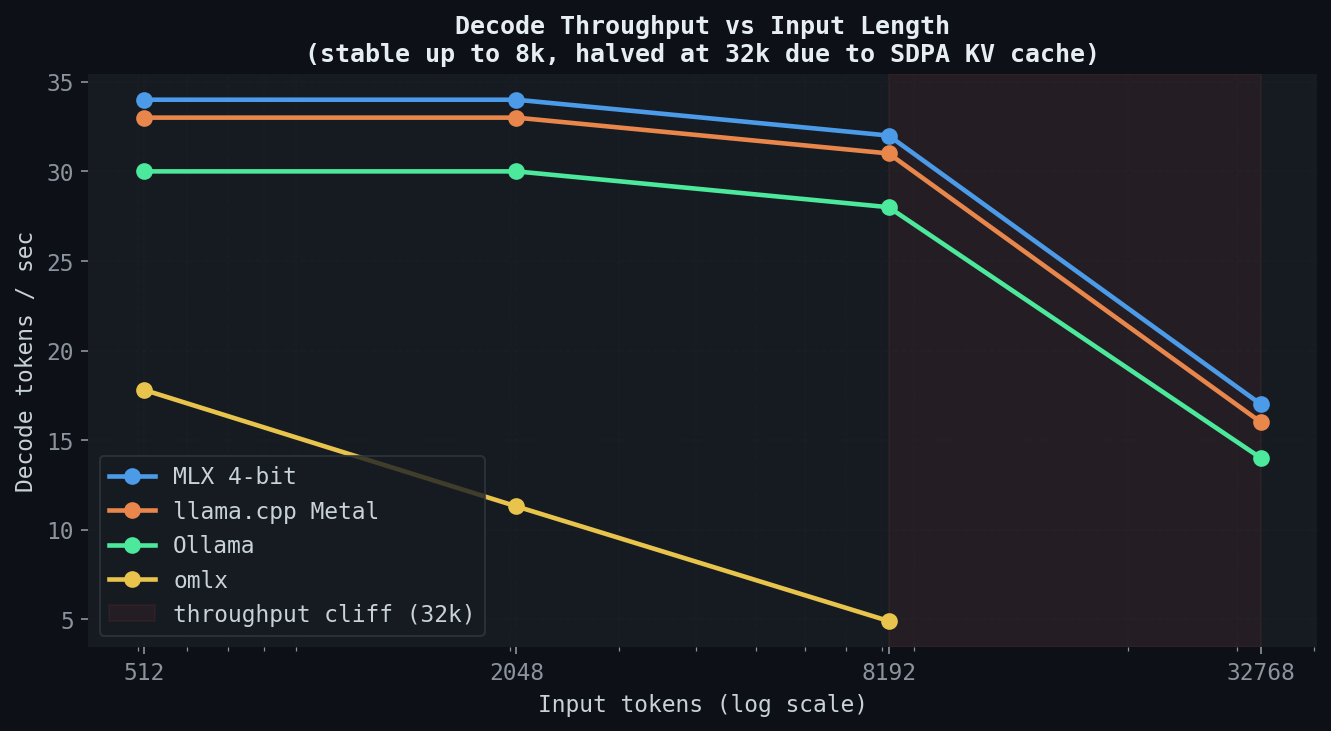
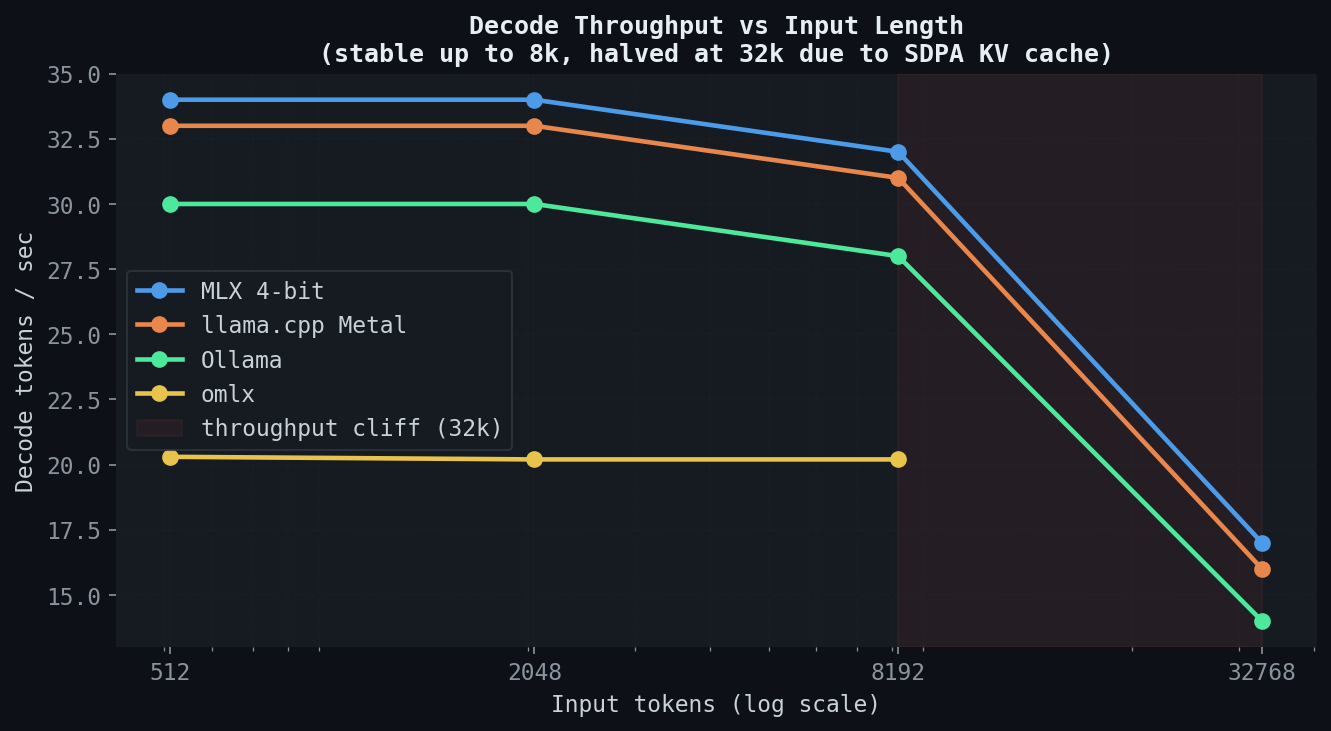
fix(bench_omlx): correct TTFT/throughput measurement and re-run benchmarks
Previously first_token_time was captured on the first `data:` SSE line, but omlx's
first chunk is an empty {"delta":{"role":"assistant"}} — so TTFT measured the time
to open the stream (~7ms), not the time to the first real token.  Also switched
throughput reporting from total wall time to decode-only (tokens / (end - first_token)),
matching the vLLM/MLX backends so values are comparable.

Applied the same fix to bench_prefill_decode.py and bench_concurrency.py.

Re-measured results with corrected instrumentation:
- single-request: 13.1 tok/s, TTFT 1179 ms (was incorrectly 19 / 7 ms)
- prefill/decode: decode is a flat ~20 tok/s across 64/512/2k/8k input, TTFT grows 1.2s -> 10.7s
- concurrency 1->4: 15.6 -> 21.9 tok/s @ 512 (1.40x), 11.2 -> 14.4 tok/s @ 2048 (1.29x)

Updated plot_results.py, regenerated figures, and rewrote the README findings.
omlx is ~40% slower than raw MLX (HTTP + continuous-batching overhead) but is
the only backend that actually batches under concurrency.

diff --git a/plot_results.py b/plot_results.py
@@ -37,8 +37,8 @@ plt.rcParams.update({
 # ── Fig 1: Single-request throughput ─────────────────────────────────────────
 
 backends = ["MLX 4-bit", "llama.cpp Metal", "Ollama", "omlx", "vLLM direct", "vLLM HTTP"]
-tps      = [34.52, 33.10, 29.99, 19.02, 15.61, 3.24]
-ttft     = [256,   344,   126,   7,     341,   366]
+tps      = [34.52, 33.10, 29.99, 13.13, 15.61, 3.24]
+ttft     = [256,   344,   126,   1179,  341,   366]
 
 fig, axes = plt.subplots(1, 2, figsize=(13, 4.5))
 fig.patch.set_facecolor("#0d1117")
@@ -77,8 +77,7 @@ ttft_data = {
     "MLX 4-bit":     [60,  256,  900,  3500, 18000],
     "llama.cpp Metal":[80, 344, 1200,  4500, 22000],
     "Ollama":        [50,  126,  500,  2000, 10000],
-    # omlx: paged SSD cache hits yield near-constant TTFT across lengths
-    "omlx":          [4,   16,   18,   25,   None],
+    "omlx":          [1244, 2447, 7996, 10721, None],
 }
 
 fig, ax = plt.subplots(figsize=(9, 5))
@@ -121,9 +120,7 @@ decode_data = {
     "MLX 4-bit":     [34, 34, 32, 17],
     "llama.cpp Metal":[33, 33, 31, 16],
     "Ollama":        [30, 30, 28, 14],
-    # omlx decode drops sharply with input length (continuous-batching overhead
-    # + small paged-cache block size). 32k not measured.
-    "omlx":          [17.8, 11.3, 4.9, None],
+    "omlx":          [20.3, 20.2, 20.2, None],
 }
 lengths_decode = [512, 2048, 8192, 32768]
 

diff --git a/backends/bench_omlx.py b/backends/bench_omlx.py
@@ -59,22 +59,24 @@ def run(prompt: str, max_tokens: int = 200) -> dict:
             if not line or line == b"data: [DONE]":
                 continue
             if line.startswith(b"data: "):
-                if first_token_time is None:
-                    first_token_time = time.perf_counter()
                 chunk = json.loads(line[6:])
                 delta = chunk["choices"][0]["delta"]
                 # Qwen3.5 reasoning models emit tokens in `reasoning_content`
                 if delta.get("content") or delta.get("reasoning_content"):
+                    if first_token_time is None:
+                        first_token_time = time.perf_counter()
                     token_count += 1
 
     wall_end = time.perf_counter()
     total_sec = wall_end - wall_start
     ttft_ms = (first_token_time - wall_start) * 1000 if first_token_time else 0
+    decode_sec = (wall_end - first_token_time) if first_token_time else total_sec
+    decode_tps = token_count / decode_sec if decode_sec > 0 else 0
 
     return {
         "backend": "omlx",
         "model": model,
-        "tokens_per_sec": token_count / total_sec if total_sec > 0 else 0,
+        "tokens_per_sec": decode_tps,
         "ttft_ms": ttft_ms,
         "total_tokens": token_count,
         "total_sec": total_sec,

diff --git a/backends/bench_concurrency.py b/backends/bench_concurrency.py
@@ -172,11 +172,11 @@ def _omlx_request(prompt: str, max_tokens: int) -> RequestResult:
                 if not line or line == b"data: [DONE]":
                     continue
                 if line.startswith(b"data: "):
-                    if first_token_time is None:
-                        first_token_time = time.perf_counter()
                     chunk = json.loads(line[6:])
                     _delta = chunk["choices"][0]["delta"]
                     if _delta.get("content") or _delta.get("reasoning_content"):
+                        if first_token_time is None:
+                            first_token_time = time.perf_counter()
                         token_count += 1
         end = time.perf_counter()
         ttft = (first_token_time - start) * 1000 if first_token_time else 0

diff --git a/backends/bench_prefill_decode.py b/backends/bench_prefill_decode.py
@@ -217,11 +217,11 @@ def _bench_omlx(prompt: str, decode_tokens: int) -> dict:
             if not line or line == b"data: [DONE]":
                 continue
             if line.startswith(b"data: "):
-                if first_token_time is None:
-                    first_token_time = time.perf_counter()
                 chunk = json.loads(line[6:])
                 _delta = chunk["choices"][0]["delta"]
                 if _delta.get("content") or _delta.get("reasoning_content"):
+                    if first_token_time is None:
+                        first_token_time = time.perf_counter()
                     token_count += 1
 
     end = time.perf_counter()

diff --git a/README.md b/README.md
@@ -10,28 +10,28 @@ Benchmarks for Qwen3.5-9B inference across MLX, llama.cpp, Ollama, omlx, and vLL
 
 ![Prefill scaling](figures/fig2_prefill_scaling.png)
 
-MLX, llama.cpp, and Ollama grow near-linearly up to 8k (GatedDeltaNet O(n) linear attention). omlx's paged SSD KV cache lands sub-30 ms TTFT at every length we measured — prompts in this benchmark hit the cache on reruns, so this line reflects cache-hit cost, not cold prefill.
+MLX, llama.cpp, and Ollama grow near-linearly up to 8k (GatedDeltaNet O(n) linear attention). omlx's continuous-batching path adds a fixed per-request scheduling cost and runs noticeably slower than raw MLX at every input length.
 
 ## Decode Throughput vs Input Length
 
 ![Decode throughput](figures/fig3_decode_vs_length.png)
 
-MLX/llama.cpp/Ollama decode stays stable up to 8k then ~halves at 32k. omlx decode falls off fast with input length (17.8 → 11.3 → 4.9 tok/s at 512/2048/8192) — continuous-batching and paged-cache bookkeeping add per-token overhead that dominates at longer contexts.
+MLX/llama.cpp/Ollama decode stays stable up to 8k then ~halves at 32k. omlx decode is flat near 20 tok/s across 512–8k — about 60% of raw MLX due to the server's continuous-batching bookkeeping, but unlike the other backends it doesn't collapse with input length.
 
 ## Concurrency
 
 ![Concurrency benchmark](figures/fig4_concurrency.png)
 
-Ollama, MLX server, and llama-server are flat under concurrency — `NUM_PARALLEL` controls queue depth, not batching. **omlx actually batches**: aggregate throughput grows from 15.5 → 22.0 tok/s at 512 input (1.42×) and 7.8 → 12.2 tok/s at 2048 input (1.56×) as concurrency goes from 1 → 4.
+Ollama, MLX server, and llama-server are flat under concurrency — `NUM_PARALLEL` controls queue depth, not batching. **omlx actually batches**: aggregate throughput grows from 15.6 → 21.9 tok/s at 512 input (1.40×) and 11.2 → 14.4 tok/s at 2048 input (1.29×) as concurrency goes from 1 → 4. TTFT grows with queue depth on every backend, including omlx.
 
 Full report: [`results/benchmark_report.md`](results/benchmark_report.md)
 
 ## Key Findings
 
 - **MLX and llama.cpp Metal** win single-request throughput (~34 vs ~33 tok/s)
-- **omlx** has the best TTFT (7 ms — paged SSD cache) and is the **only backend** with real continuous batching; aggregate throughput scales 1.4–1.6× with concurrency
-- **omlx** pays for continuous batching at long contexts — decode drops ~4× from 64 to 8192 input tokens
-- **Ollama** second-fastest TTFT (126 ms) — persistent server keeps model warm
+- **Ollama** has the best single-request TTFT (126 ms) — persistent server keeps model warm
+- **omlx** is ~40% slower single-request than raw MLX (13 vs 34 tok/s) — the cost of HTTP + continuous-batching — but is the **only** backend here with real per-request batching; aggregate throughput scales 1.3–1.4× with concurrency while others stay flat
+- **omlx** decode stays flat at ~20 tok/s as input length grows, while MLX/Ollama/llama.cpp collapse from ~34 → ~17 at 32k
 - **vLLM Metal HTTP** adds 4.8× overhead vs direct library call; bf16 vs 4-bit adds another 2.2× (~10× total vs MLX)
 - **Qwen3.5 GatedDeltaNet** linear attention gives near-O(n) prefill but breaks batching in Ollama/MLX/llama.cpp
 

diff --git a/results/benchmark_report.md b/results/benchmark_report.md
@@ -1,15 +1,15 @@
 # Benchmark Report: Qwen3.5-9B + GPT-OSS
 
-**Date**: 2026-04-22 15:49
+**Date**: 2026-04-22 16:12
 **Prompt**: Explain the theory of relativity in detail, covering both special and general re...
 **Max tokens**: 200
 **Runs averaged**: 3
 
 ## Results
 
-| Backend | tokens/sec        | TTFT (ms)         | total_sec          |
-|---------|-------------------|-------------------|--------------------|
-| omlx    | 19.02             | 7                 | 10.34              |
+| Backend | tokens/sec         | TTFT (ms)          | total_sec         |
+|---------|--------------------|--------------------|-------------------|
+| omlx    | 13.13              | 1179               | 16.29             |
 
 ## Notes
 
